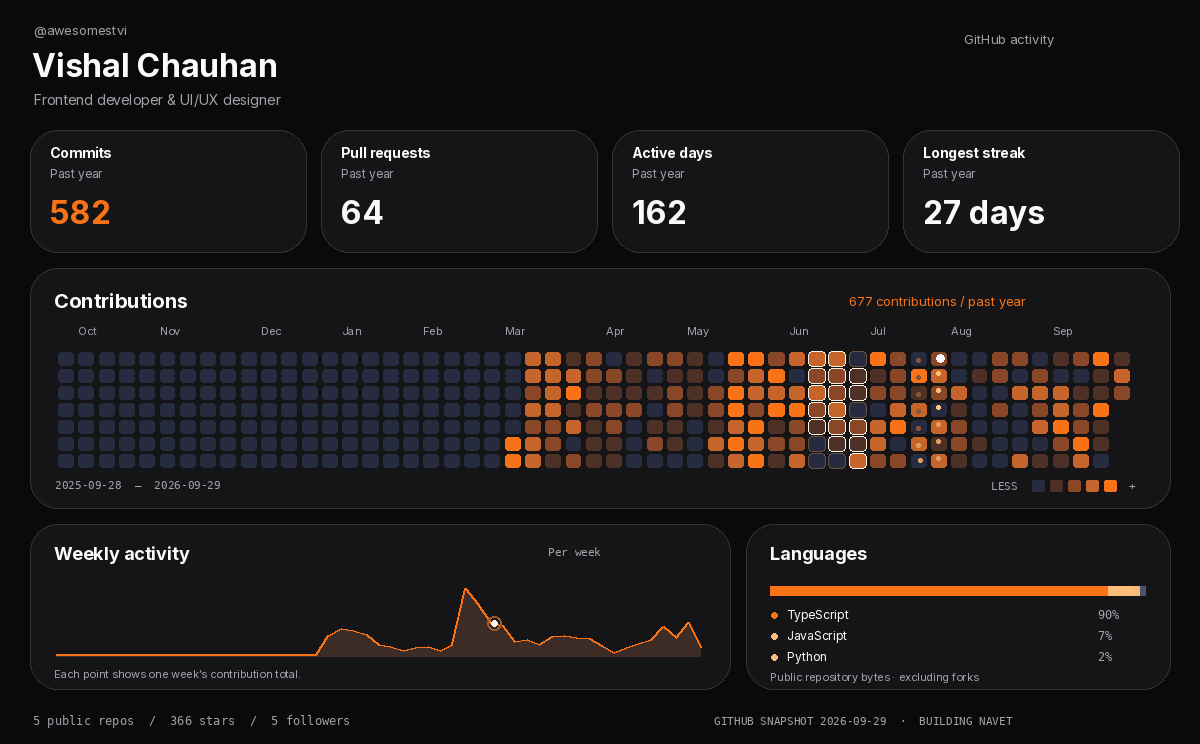
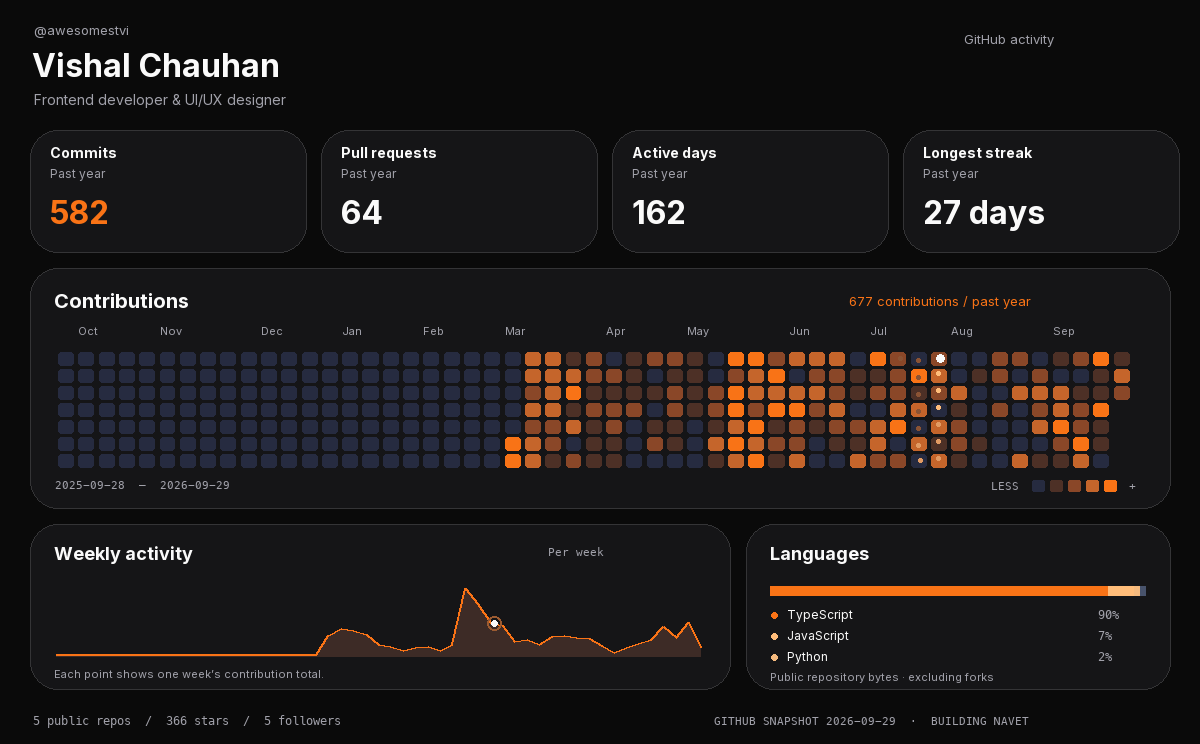
fix: remove decorative contribution grid scanner

diff --git a/index.html b/index.html
@@ -3,7 +3,7 @@
 <head>
 <meta charset="utf-8"><meta name="viewport" content="width=device-width, initial-scale=1"><meta name="color-scheme" content="dark"><title>Vishal Chauhan · GitHub activity</title>
 <style>
-@font-face{font-family:Inter;src:url(assets/fonts/inter.woff2) format("woff2");font-weight:100 900;font-display:swap}:root{--bg:#0a0a0a;--card:#18181b;--line:#3f3f4670;--white:#fafafa;--muted:#a1a1aa;--orange:#f97316;--amber:#ffbd7a}*{box-sizing:border-box}body{margin:0;background:var(--bg);color:var(--white);font-family:Inter,system-ui,sans-serif}main{max-width:1200px;padding:42px 28px;margin:auto}a{color:inherit;text-decoration:none}a:hover{color:var(--orange)}button,a:focus-visible{outline-offset:5px}button:focus-visible,a:focus-visible{outline:2px solid var(--orange)}.mono{font-family:"SFMono-Regular",Consolas,monospace}.top{display:flex;justify-content:space-between;gap:16px;align-items:center}.eyebrow{font-size:11px;letter-spacing:2px;color:var(--orange)}button{font:12px "SFMono-Regular",Consolas,monospace;background:transparent;border:1px solid var(--line);border-radius:30px;padding:11px 16px;color:var(--muted);cursor:pointer;white-space:nowrap}.intro{position:relative;margin:28px 0 26px}.intro h1{font-size:32px;margin:0 0 8px;letter-spacing:-.8px;line-height:1.15}.intro p{color:var(--muted);font-size:14px;margin:0;line-height:1.6}.intro .tag{margin-top:15px;font-size:13px}.signal{position:absolute;right:0;top:-30px;width:280px;height:160px;opacity:.55;z-index:-1}.signal path{stroke:var(--amber);stroke-dasharray:6 14;animation:signal 6s linear infinite}.stats{display:grid;grid-template-columns:repeat(4,1fr);gap:14px}.card{border:1px solid var(--line);border-radius:28px;background:linear-gradient(135deg,#18181b,#09090b);padding:20px;min-width:0}.stat strong{font-size:42px;letter-spacing:-2px;color:var(--orange);font-weight:600}.stat:nth-child(even) strong{color:var(--amber)}.stat-bottom{display:flex;justify-content:space-between;gap:10px;margin-top:12px;font-size:13px}.muted{color:var(--muted)}.period{font-size:10px;white-space:nowrap}.matrix{margin-top:16px;overflow:hidden}.card-head{display:flex;align-items:center;justify-content:space-between;gap:18px;margin-bottom:20px}h2{font-size:18px;margin:0;font-weight:600}.total{color:var(--orange);font-size:12px}.calendar-wrap{overflow-x:auto;padding:0 0 5px}.calendar{display:block;min-width:760px;width:100%;height:auto}.scan{animation:sweep 6.4s linear infinite}.snake{animation:snake 6.4s linear infinite}@keyframes snake{from{stroke-dashoffset:32}to{stroke-dashoffset:var(--travel)}}.lower{display:grid;grid-template-columns:1.6fr 1fr;gap:16px;margin-top:16px}.pulse{width:100%;height:110px;display:block}.trace{stroke-dasharray:9 18;animation:signal 3s linear infinite}.language-track{display:flex;height:9px;border-radius:10px;overflow:hidden;margin:22px 0}.language-track span{position:relative}.language-track span:after{content:"";position:absolute;inset:0;background:linear-gradient(90deg,transparent,#ffffff55,transparent);transform:translateX(-100%);animation:glide 4s ease-in-out infinite}.language-row{display:flex;justify-content:space-between;align-items:center;font-size:12px;margin:11px 0}.lang-name{display:flex;align-items:center;gap:9px}.dot{width:7px;height:7px;border-radius:50%;background:var(--orange)}.caption{font-size:11px;color:var(--muted);line-height:1.6;margin:15px 0 0}footer{margin:25px 3px 0;color:var(--muted);font-size:11px;display:flex;justify-content:space-between;gap:20px;line-height:1.8}.links{display:flex;gap:15px;flex-wrap:wrap}.paused *{animation-play-state:paused!important}@keyframes sweep{from{transform:translateX(-40px)}to{transform:translateX(1110px)}}@keyframes signal{to{stroke-dashoffset:-120}}@keyframes glide{0%,30%{transform:translateX(-100%)}80%,100%{transform:translateX(100%)}}@media(max-width:750px){main{padding:26px 18px}.stats{grid-template-columns:1fr 1fr}.lower{grid-template-columns:1fr}.card{padding:19px}.card-head{align-items:start;flex-direction:column;gap:8px}.intro h1{letter-spacing:-1.5px}.intro p{font-size:15px}.signal{width:150px;opacity:.2}.top .eyebrow{font-size:9px;letter-spacing:1px}footer{flex-direction:column;gap:12px}.stat strong{font-size:36px}.stat-bottom{flex-direction:column;gap:7px}.calendar{min-width:760px}}@media(prefers-reduced-motion:reduce){*,*::before,*::after{animation:none!important}.scan,.snake{display:none}.trace{stroke-dasharray:none}}
+@font-face{font-family:Inter;src:url(assets/fonts/inter.woff2) format("woff2");font-weight:100 900;font-display:swap}:root{--bg:#0a0a0a;--card:#18181b;--line:#3f3f4670;--white:#fafafa;--muted:#a1a1aa;--orange:#f97316;--amber:#ffbd7a}*{box-sizing:border-box}body{margin:0;background:var(--bg);color:var(--white);font-family:Inter,system-ui,sans-serif}main{max-width:1200px;padding:42px 28px;margin:auto}a{color:inherit;text-decoration:none}a:hover{color:var(--orange)}button,a:focus-visible{outline-offset:5px}button:focus-visible,a:focus-visible{outline:2px solid var(--orange)}.mono{font-family:"SFMono-Regular",Consolas,monospace}.top{display:flex;justify-content:space-between;gap:16px;align-items:center}.eyebrow{font-size:11px;letter-spacing:2px;color:var(--orange)}button{font:12px "SFMono-Regular",Consolas,monospace;background:transparent;border:1px solid var(--line);border-radius:30px;padding:11px 16px;color:var(--muted);cursor:pointer;white-space:nowrap}.intro{position:relative;margin:28px 0 26px}.intro h1{font-size:32px;margin:0 0 8px;letter-spacing:-.8px;line-height:1.15}.intro p{color:var(--muted);font-size:14px;margin:0;line-height:1.6}.intro .tag{margin-top:15px;font-size:13px}.signal{position:absolute;right:0;top:-30px;width:280px;height:160px;opacity:.55;z-index:-1}.signal path{stroke:var(--amber);stroke-dasharray:6 14;animation:signal 6s linear infinite}.stats{display:grid;grid-template-columns:repeat(4,1fr);gap:14px}.card{border:1px solid var(--line);border-radius:28px;background:linear-gradient(135deg,#18181b,#09090b);padding:20px;min-width:0}.stat strong{font-size:42px;letter-spacing:-2px;color:var(--orange);font-weight:600}.stat:nth-child(even) strong{color:var(--amber)}.stat-bottom{display:flex;justify-content:space-between;gap:10px;margin-top:12px;font-size:13px}.muted{color:var(--muted)}.period{font-size:10px;white-space:nowrap}.matrix{margin-top:16px;overflow:hidden}.card-head{display:flex;align-items:center;justify-content:space-between;gap:18px;margin-bottom:20px}h2{font-size:18px;margin:0;font-weight:600}.total{color:var(--orange);font-size:12px}.calendar-wrap{overflow-x:auto;padding:0 0 5px}.calendar{display:block;min-width:760px;width:100%;height:auto}.snake{animation:snake 6.4s linear infinite}@keyframes snake{from{stroke-dashoffset:32}to{stroke-dashoffset:var(--travel)}}.lower{display:grid;grid-template-columns:1.6fr 1fr;gap:16px;margin-top:16px}.pulse{width:100%;height:110px;display:block}.trace{stroke-dasharray:9 18;animation:signal 3s linear infinite}.language-track{display:flex;height:9px;border-radius:10px;overflow:hidden;margin:22px 0}.language-track span{position:relative}.language-track span:after{content:"";position:absolute;inset:0;background:linear-gradient(90deg,transparent,#ffffff55,transparent);transform:translateX(-100%);animation:glide 4s ease-in-out infinite}.language-row{display:flex;justify-content:space-between;align-items:center;font-size:12px;margin:11px 0}.lang-name{display:flex;align-items:center;gap:9px}.dot{width:7px;height:7px;border-radius:50%;background:var(--orange)}.caption{font-size:11px;color:var(--muted);line-height:1.6;margin:15px 0 0}footer{margin:25px 3px 0;color:var(--muted);font-size:11px;display:flex;justify-content:space-between;gap:20px;line-height:1.8}.links{display:flex;gap:15px;flex-wrap:wrap}.paused *{animation-play-state:paused!important}@keyframes signal{to{stroke-dashoffset:-120}}@keyframes glide{0%,30%{transform:translateX(-100%)}80%,100%{transform:translateX(100%)}}@media(max-width:750px){main{padding:26px 18px}.stats{grid-template-columns:1fr 1fr}.lower{grid-template-columns:1fr}.card{padding:19px}.card-head{align-items:start;flex-direction:column;gap:8px}.intro h1{letter-spacing:-1.5px}.intro p{font-size:15px}.signal{width:150px;opacity:.2}.top .eyebrow{font-size:9px;letter-spacing:1px}footer{flex-direction:column;gap:12px}.stat strong{font-size:36px}.stat-bottom{flex-direction:column;gap:7px}.calendar{min-width:760px}}@media(prefers-reduced-motion:reduce){*,*::before,*::after{animation:none!important}.snake{display:none}.trace{stroke-dasharray:none}}
 
 .navet-card-title{font-size:14px;font-weight:600;margin:0;line-height:20px}.navet-card-subtitle{font-size:12px;color:var(--muted);margin:3px 0 0;line-height:16px}.stat{display:flex;flex-direction:column}.stat>.flex{height:auto;flex:1;margin-top:26px}.stat-note{font-size:11px;color:var(--muted)}.accent-text{color:var(--orange)}.flex{display:flex}.flex-col{flex-direction:column}.h-full{height:100%}.mt-auto{margin-top:auto}.mt-3{margin-top:12px}.pt-3{padding-top:12px}.pt-4{padding-top:16px}.text-2xl{font-size:24px}.text-3xl{font-size:30px}.text-4xl{font-size:36px}.font-bold{font-weight:700}.font-semibold{font-weight:600}.leading-none{line-height:1}.text-sm{font-size:14px}.leading-5{line-height:20px}.mt-1{margin-top:4px}.text-white\/72{color:rgba(255,255,255,.72)}.text-white\/76{color:rgba(255,255,255,.76)}
 .eyebrow{text-transform:none;letter-spacing:0;font-family:Inter,system-ui,sans-serif;font-size:13px;color:var(--muted)}.period{font-size:11px;text-transform:none;letter-spacing:0}.stat strong{font-family:Inter,system-ui,sans-serif}.intro h1{letter-spacing:-.8px}@media(max-width:750px){.top .eyebrow{font-size:13px;letter-spacing:0}.intro h1{font-size:28px;letter-spacing:-.7px}.intro p{font-size:13px}.stat-note{line-height:16px}.text-4xl{font-size:30px}.stat>.flex{margin-top:20px}}
@@ -35,7 +35,6 @@ fetch('data/profile.json').then(r=>{if(!r.ok)throw Error('Snapshot unavailable')
  for(const day of week.contributionDays){const level=day.contributionCount?Math.min(4,1+Math.floor(Math.log2(day.contributionCount))):0;const rect=svgNode('rect',{x:wi*20.5+3,y:31+day.weekday*19,width:15,height:14,rx:3,fill:colors[level]},grid);svgNode('title',{},rect).textContent=`${day.date}: ${day.contributionCount} contributions`;}});
  const trail=[];for(let wi=Math.max(0,weeks.length-27);wi<weeks.length;wi++){const rows=wi%2===0?[0,1,2,3,4,5,6]:[6,5,4,3,2,1,0];for(const row of rows){if(weeks[wi].contributionDays.some(day=>day.weekday===row))trail.push([wi*20.5+10.5,38+row*19]);}}
  const snakePath=svgNode('path',{d:'M'+trail.map(p=>p.join(',')).join(' L'),fill:'none',stroke:'#fff0d5','stroke-width':3,'stroke-linecap':'round','stroke-dasharray':'32 10000',class:'snake','aria-hidden':'true'},grid);let travel=0;for(let i=1;i<trail.length;i++)travel+=Math.hypot(trail[i][0]-trail[i-1][0],trail[i][1]-trail[i-1][1]);snakePath.style.setProperty('--travel',String(-travel));
- svgNode('rect',{x:0,y:27,width:22,height:141,rx:3,fill:'none',stroke:'#ffc786','stroke-opacity':.6,class:'scan','aria-hidden':'true'},grid);
  svgNode('text',{x:3,y:180,fill:'#a0a9c2','font-size':10},grid).textContent='Sun → Sat, top to bottom · Less';
  colors.forEach((color,i)=>svgNode('rect',{x:209+i*17,y:171,width:12,height:10,rx:2,fill:color},grid));
  svgNode('text',{x:300,y:180,fill:'#a0a9c2','font-size':10},grid).textContent='More';

diff --git a/scripts/render_dashboard.py b/scripts/render_dashboard.py
@@ -73,7 +73,6 @@ def render(phase):
     gx, gy, step, size = 58, 448, 20.3, 15
     last_month=None
     # Same week/day placement as GitHub. Future cells are left empty.
-    sweep=phase*(len(WEEKS)+9)-4
     for wi,week in enumerate(WEEKS):
         first=date.fromisoformat(week['contributionDays'][0]['date'])
         if first.month != last_month and wi < len(WEEKS)-2 and not (wi == 0 and first.day > 21):
@@ -83,9 +82,6 @@ def render(phase):
             x,y=gx+wi*step,gy+day['weekday']*17
             count=day['contributionCount']
             d.rounded_rectangle((x,y,x+size,y+13),3,fill=PALETTE[level(count)])
-            # Moving outlines never alter the actual heatmap intensity.
-            if abs(wi-sweep)<1.5:
-                d.rounded_rectangle((x-1,y-1,x+size+1,y+14),4,outline='#fff1dd' if count else '#665244',width=1)
     # A lilac comet snakes through the recent six months of the actual grid.
     trail = [(gx+wi*step+size/2, gy+row*17+6.5)
              for wi in range(max(0,len(WEEKS)-27),len(WEEKS))

diff --git a/README.md b/README.md
@@ -15,7 +15,7 @@ I'm **Vishal Chauhan**, a frontend developer and UI/UX designer. I build [Navet]
 
 The heatmap and statistics come from GitHub's API. Activity covers GitHub's trailing-year contribution window; longest streak counts consecutive days with contributions in that window. Language percentages use GitHub-reported bytes across public, owned repositories, excluding forks. Stars are summed across those same repositories.
 
-The animated comet, scan, and chart trace are visual effects. The underlying contribution values stay fixed. The footer shows the snapshot date. A daily GitHub Action refreshes the data and images; scheduled runs can be delayed by GitHub. Use the **Still image** link above for a motion-free view.
+The animated comet and chart trace are visual effects. The underlying contribution values stay fixed. The footer shows the snapshot date. A daily GitHub Action refreshes the data and images; scheduled runs can be delayed by GitHub. Use the **Still image** link above for a motion-free view.
 
 The repository includes an interactive preview with a motion pause button and reduced-motion support:
 
